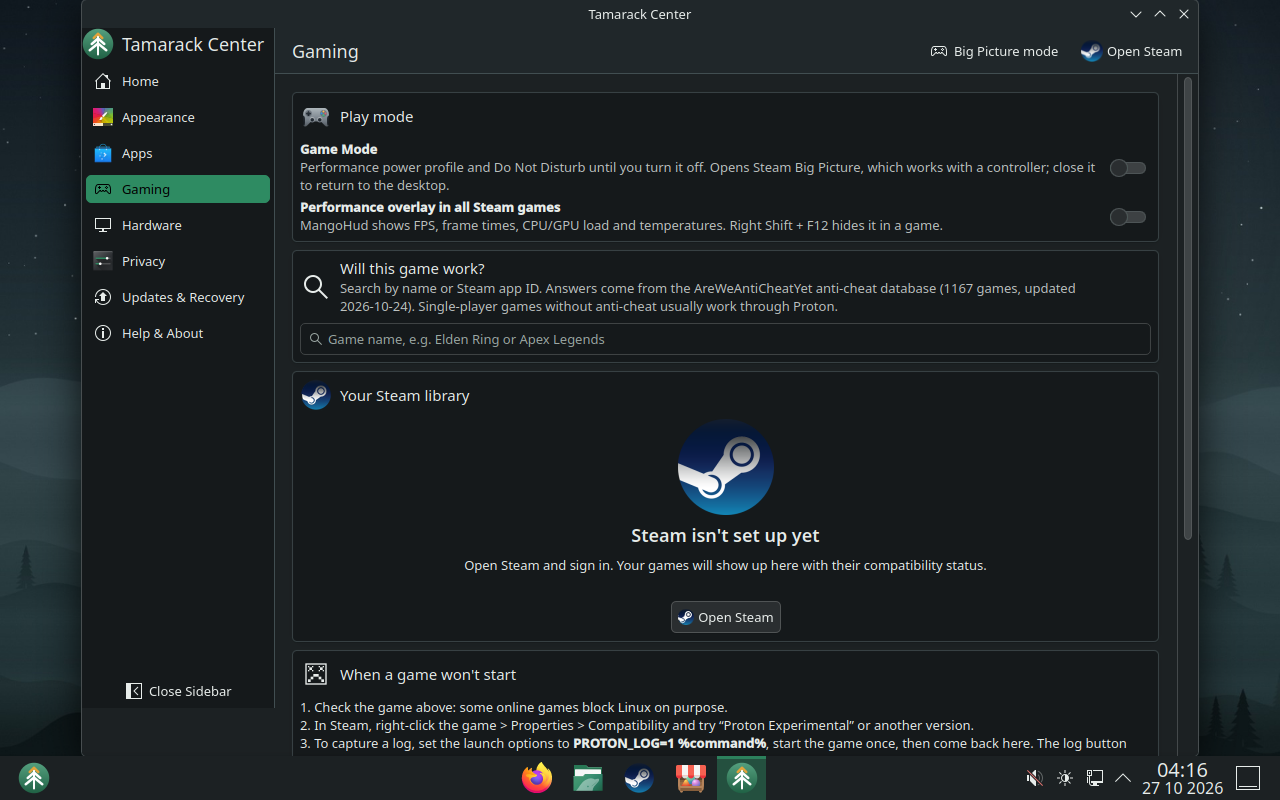
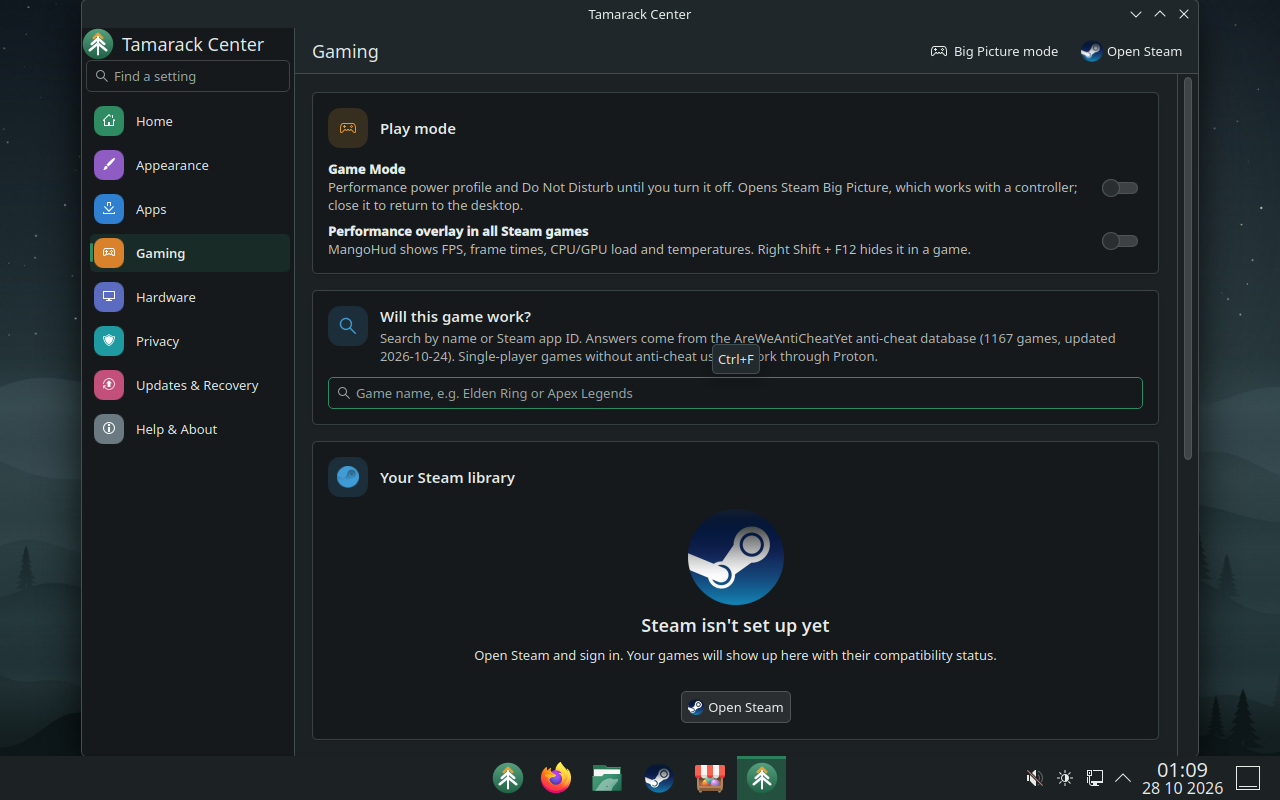
README screenshots from the latest VM run; VM test applies the light Productivity preset

diff --git a/README.md b/README.md
@@ -22,16 +22,19 @@ Tamarack adds its own identity, defaults, privacy settings and tools on top.
 
 ## Screenshots
 
-Captured automatically by the CI virtual-machine test (QEMU, 1280×800, no GPU acceleration), not mock-ups.
+Captured automatically by the CI virtual-machine test (QEMU, 1280×800, no GPU acceleration, at night so the theme is
+dark), not mock-ups.
 
 | | |
 |---|---|
-| ![Default desktop at night](docs/screenshots/desktop.png) | ![Gaming preset](docs/screenshots/preset-gaming.png) |
-| Default "Clean Modern" desktop (dark at night) | Gaming preset |
-| ![Tamarack Center home](docs/screenshots/center-home.png) | ![Appearance presets](docs/screenshots/center-appearance.png) |
-| Tamarack Center: health summary | Appearance presets |
-| ![Gaming page](docs/screenshots/center-gaming.png) | ![Updates and recovery](docs/screenshots/center-updates.png) |
-| Gaming: Game Mode, overlay, anti-cheat checker | Updates and rollback |
+| ![Start menu and taskbar](docs/screenshots/desktop.png) | ![Welcome](docs/screenshots/welcome.png) |
+| Start menu, with the Start button and apps centered on the taskbar | First-run Welcome |
+| ![Tamarack Center home](docs/screenshots/center-home.png) | ![Apps page](docs/screenshots/center-apps.png) |
+| Tamarack Center: health summary, sidebar with "Find a setting" | Apps: search Flathub, bundles, one-click install |
+| ![Appearance presets](docs/screenshots/center-appearance.png) | ![Gaming page](docs/screenshots/center-gaming.png) |
+| Appearance presets | Gaming: Game Mode, overlay, anti-cheat checker |
+| ![SuperTux running](docs/screenshots/game-supertux.png) | ![Steam sign-in](docs/screenshots/steam-sign-in.png) |
+| SuperTux, downloaded from Flathub and started by the VM test | Steam after downloading its client on first start |
 
 ## What you get
 
